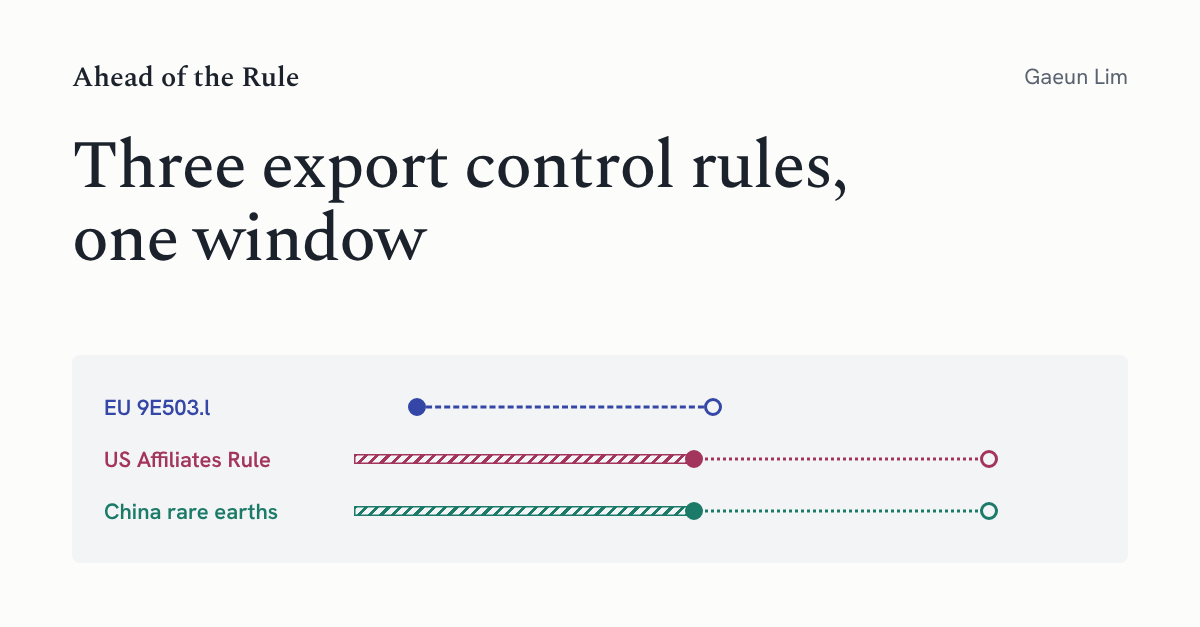
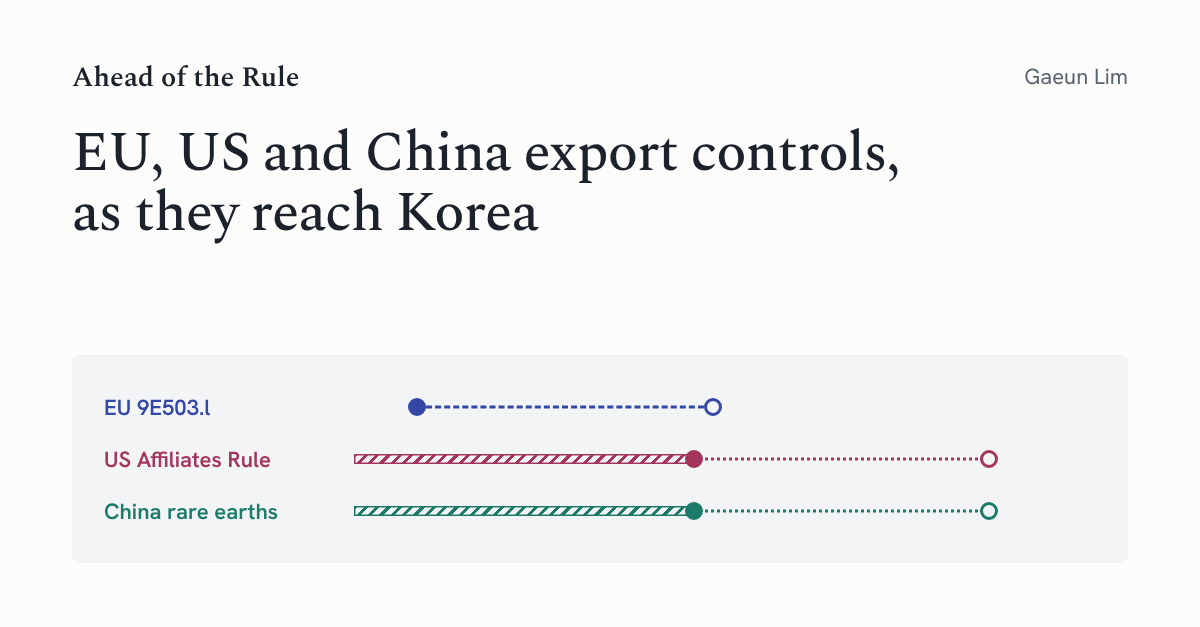
Add files via upload

Changed region(s): [[0.0617, 0.2121, 0.74, 0.4242]]

diff --git a/index.html b/index.html
@@ -6,7 +6,7 @@ permalink: /
 
 <section class="cover">
   <div class="wrap">
-    <h1 class="cover__title">Three export control rules reach a decision point within the same few months. This study reads them before they settle.</h1>
+    <h1 class="cover__title">EU, US and China export controls, as they reach Korea</h1>
     <p class="cover__lede">Between September 2026 and January 2027, a new EU technology entry, the US Affiliates Rule and China's rare-earth controls all reach a decision point. They differ in almost everything else, so they are read here side by side, on the same questions, from the position of a Korean firm.</p>
     {% include window.html %}
     <nav class="toc" aria-label="On this page">

diff --git a/assets/css/main.css b/assets/css/main.css
@@ -236,6 +236,5 @@ a:hover { text-decoration-thickness: 2px; }
 .foot__inner { display: grid; grid-template-columns: auto 1fr; gap: 0.5rem 2rem; align-items: baseline; }
 .foot__name { font-family: var(--serif); font-weight: 600; font-size: 1.05rem; }
 .foot__links { list-style: none; margin: 0; padding: 0; display: flex; gap: 1.25rem; }
-.foot__note { grid-column: 1 / -1; color: var(--muted); }
 
 @media (prefers-reduced-motion: reduce) { * { scroll-behavior: auto !important; } }

diff --git a/_layouts/default.html b/_layouts/default.html
@@ -46,7 +46,6 @@
       <li><a href="{{ link.url }}" rel="me noopener">{{ link.label }}</a></li>
       {% endfor %}
     </ul>
-    <p class="foot__note">Analysis, not legal advice. Check the official texts for the date of any transaction. Content CC BY 4.0; site code MIT.</p>
   </div>
 </footer>
 </body>
